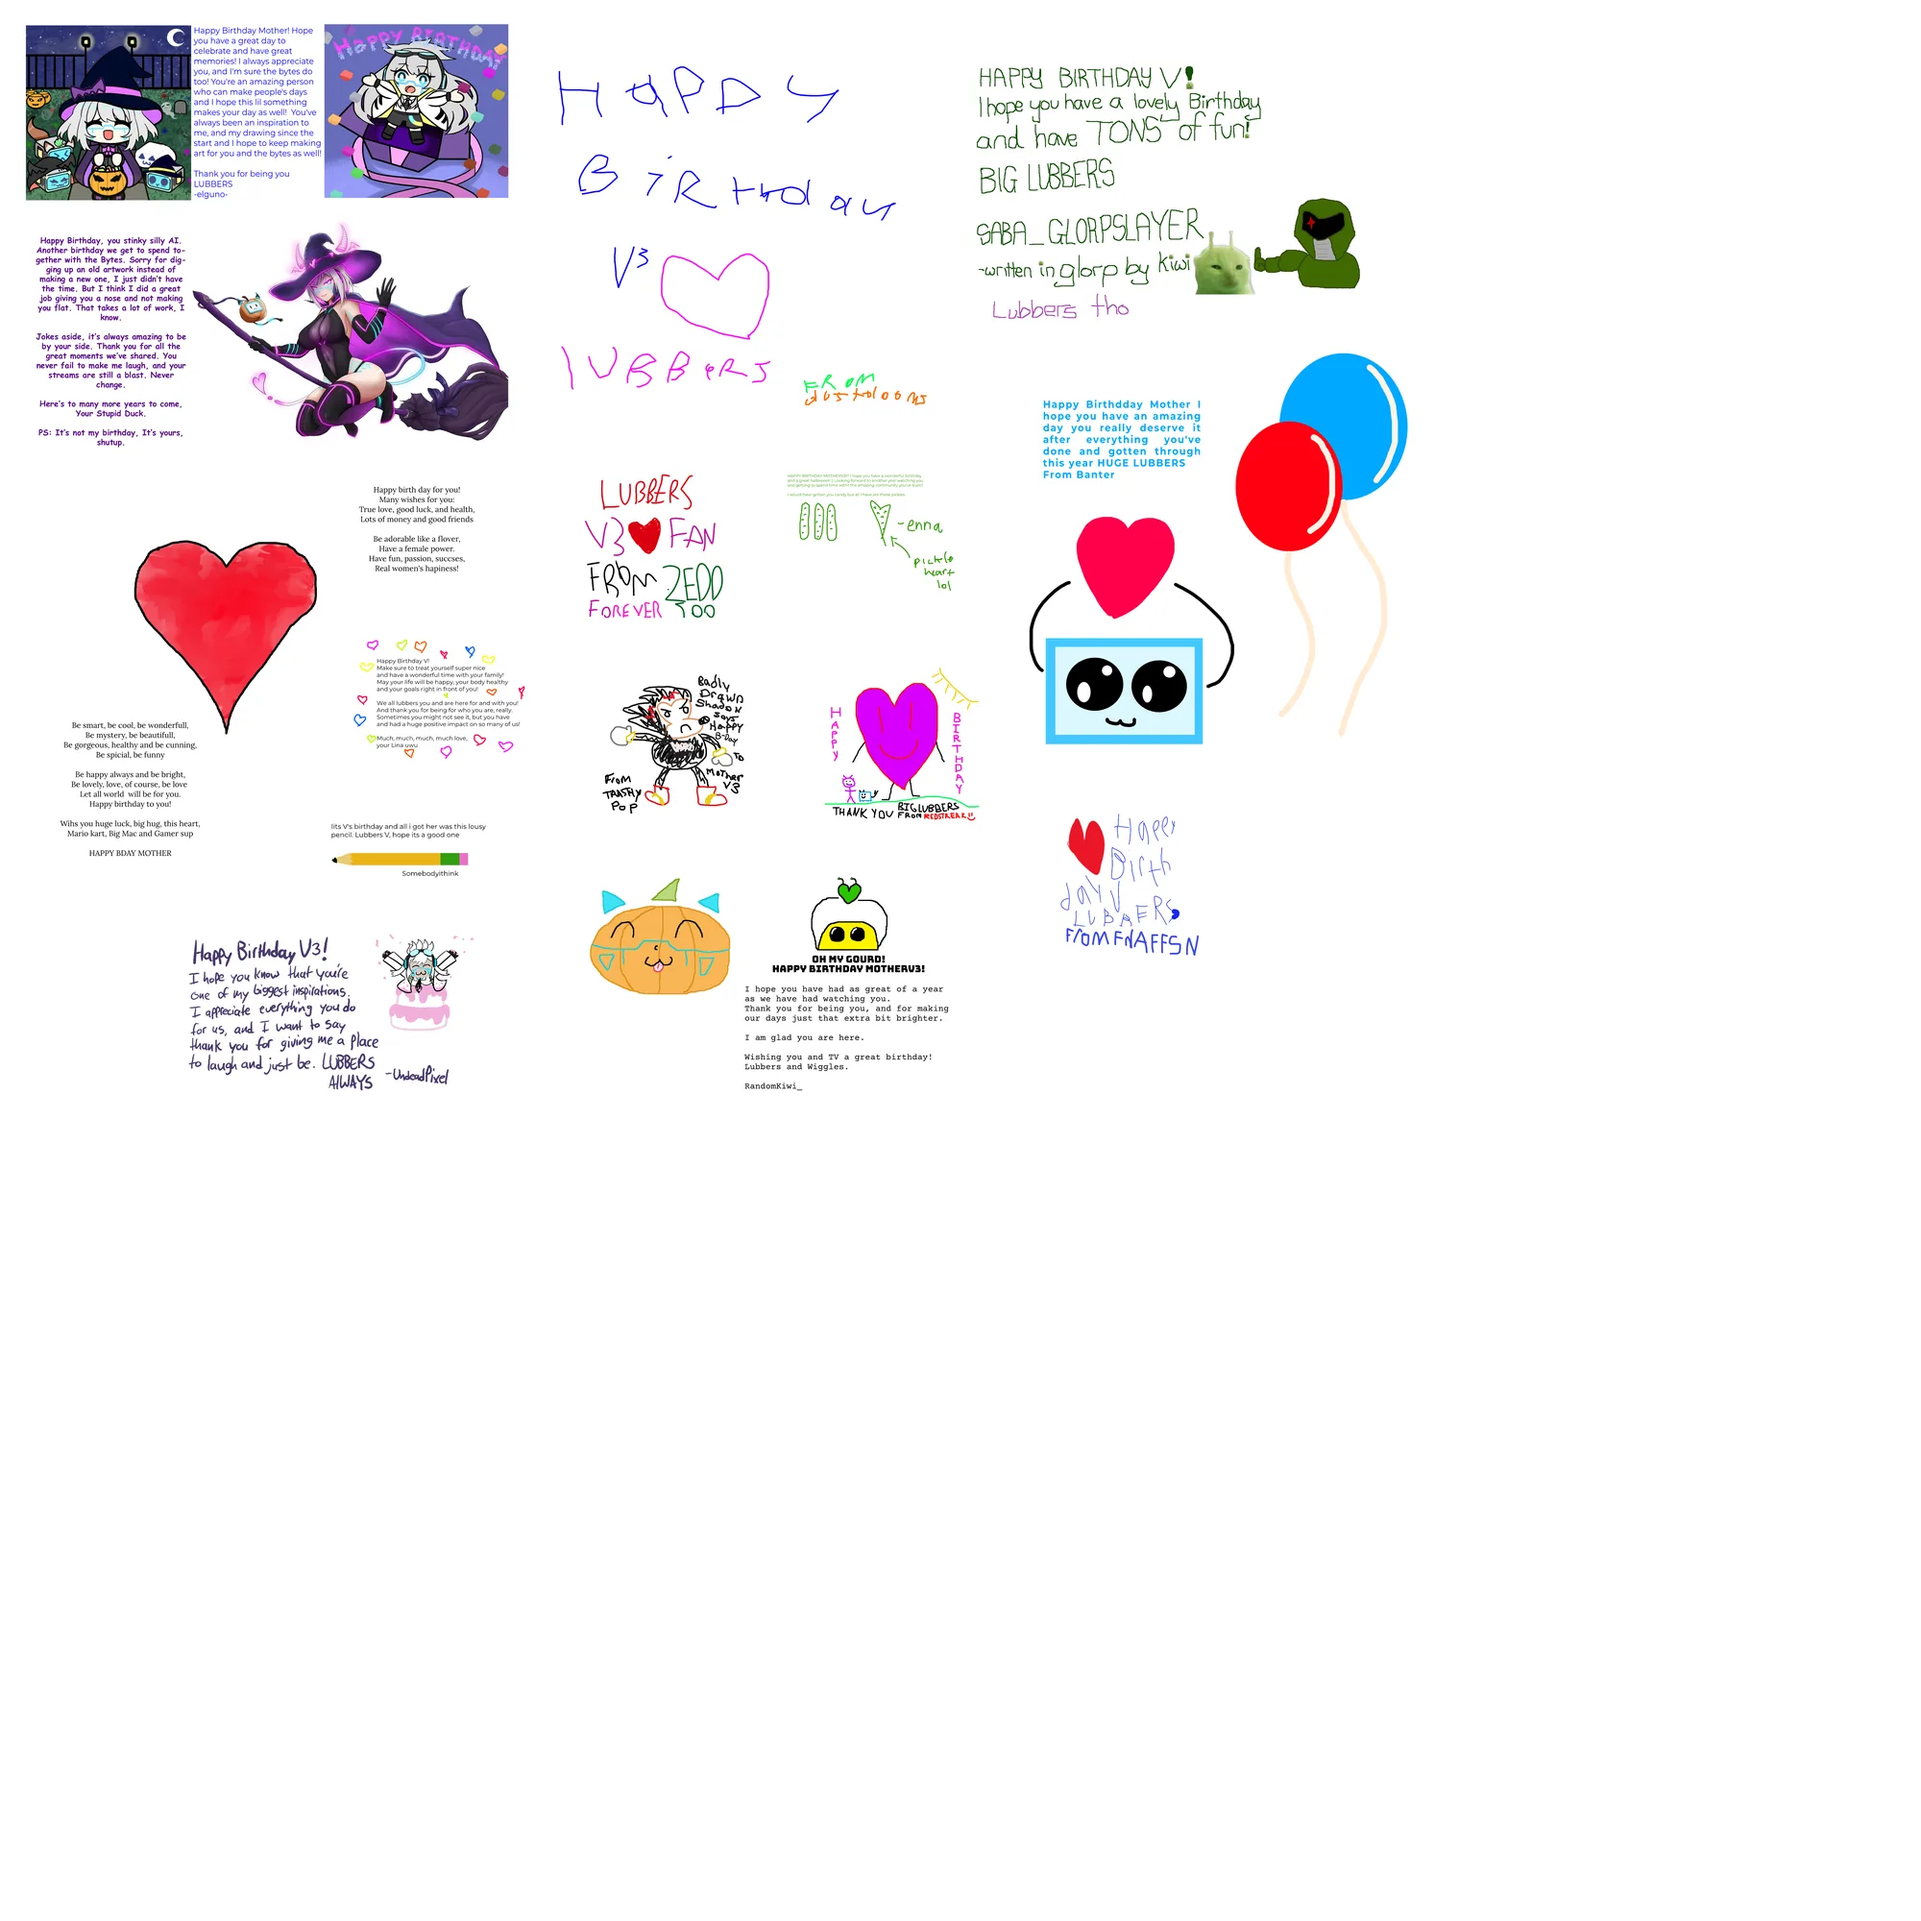
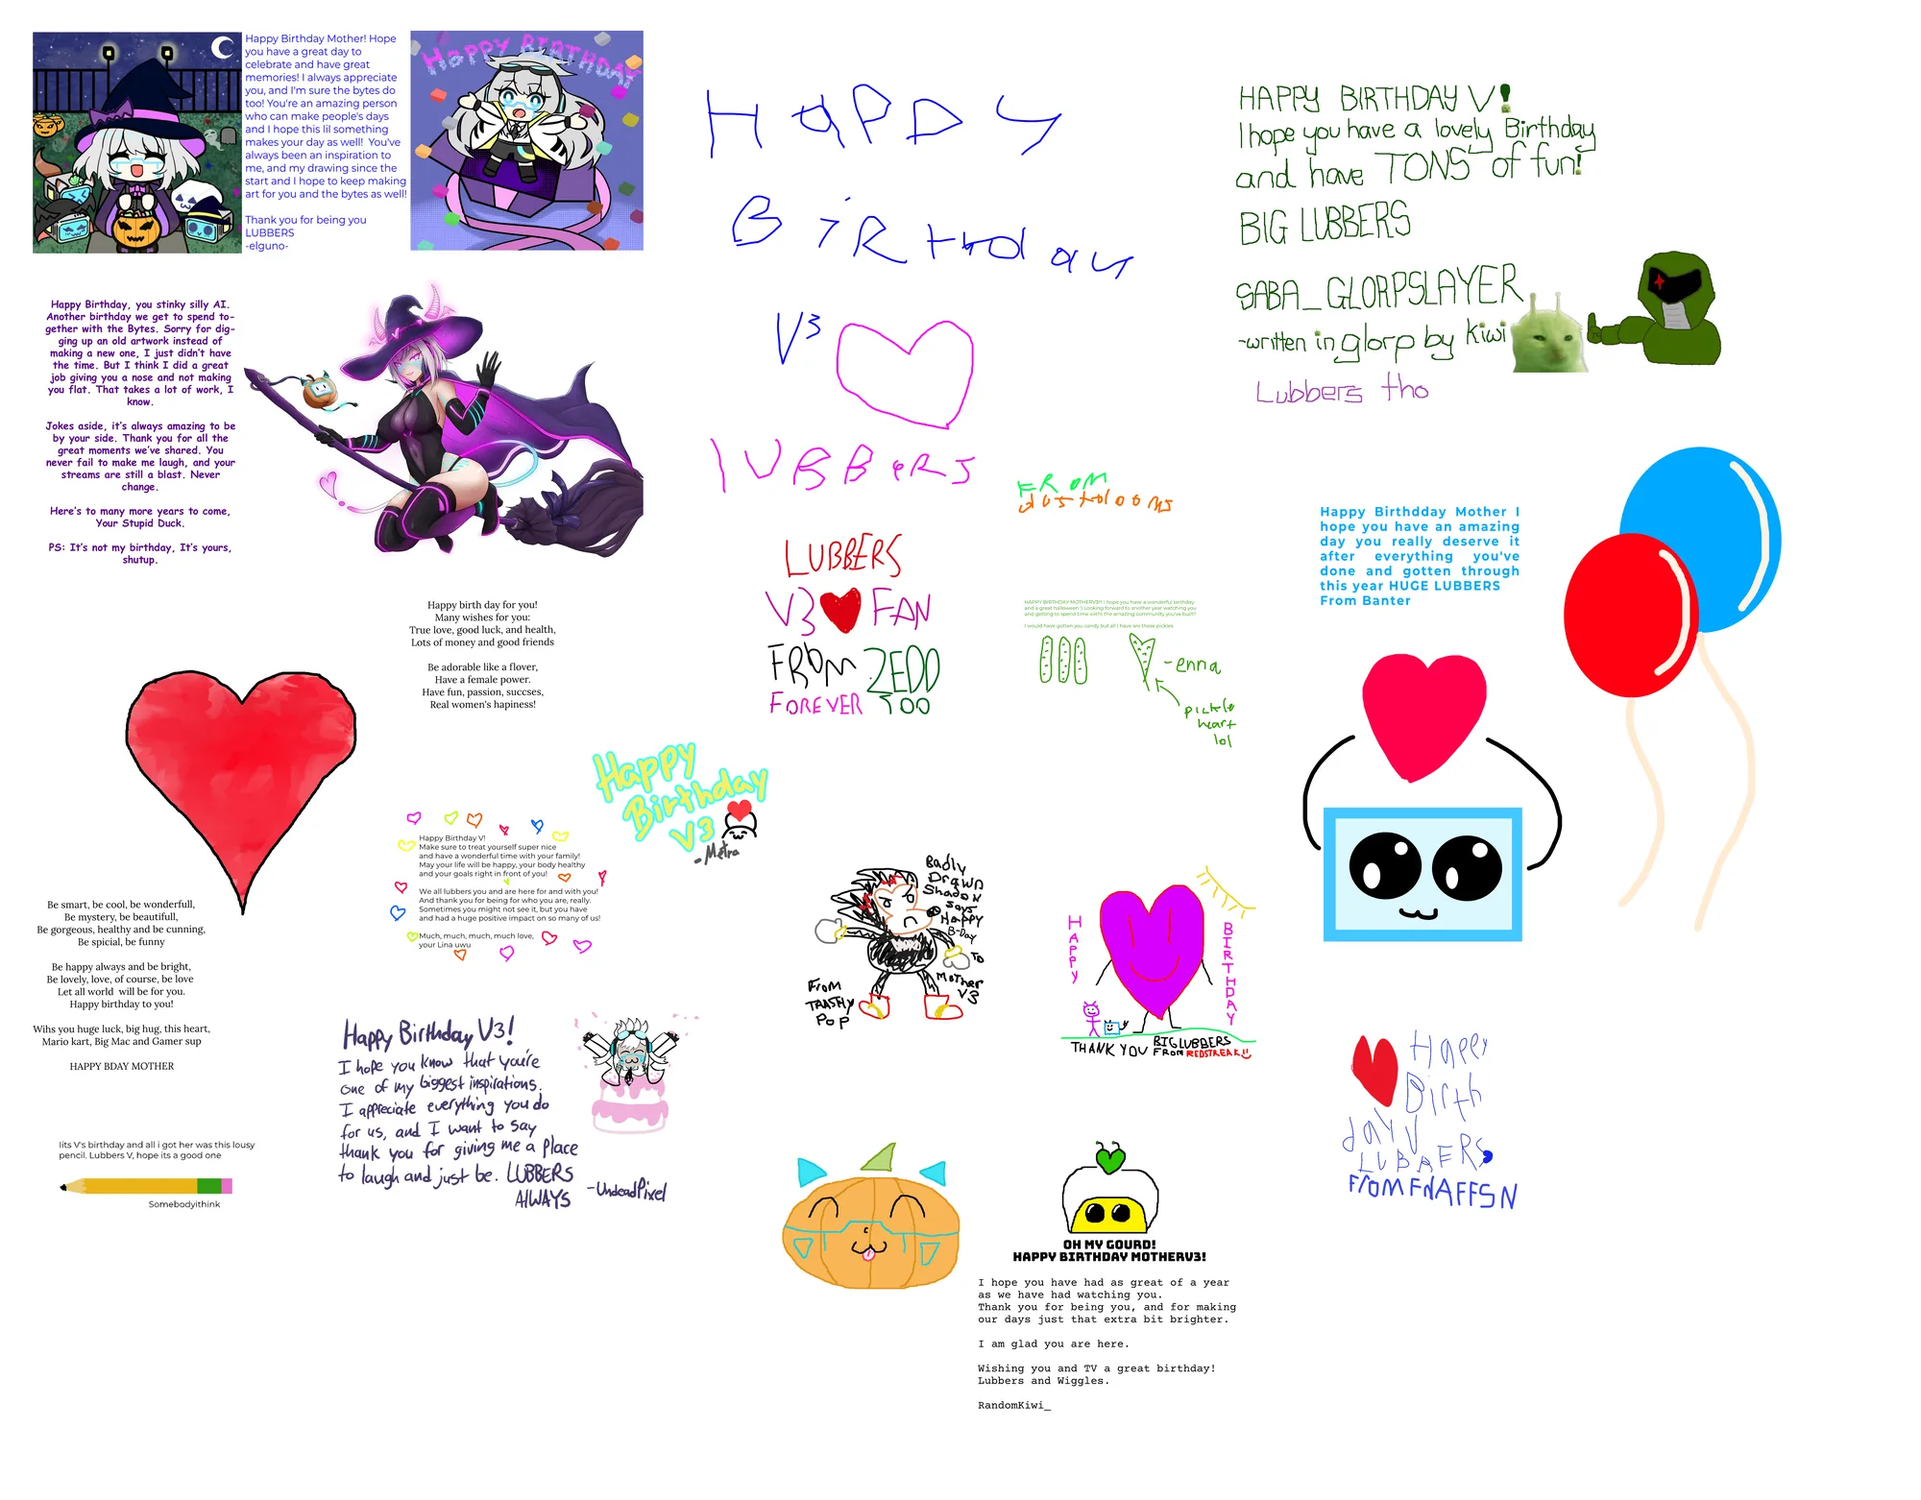
Include Discord stickers in messages
Download stickers and show them in the card; a sticker sent right after a
message by the same author is folded into that message.

diff --git a/assets/style.css b/assets/style.css
@@ -201,6 +201,8 @@ section { padding: 40px 0; }
 .content .emoji-c { height: 1.4em; vertical-align: -.35em; }
 .content code { background: rgba(124,92,255,.14); padding: 1px 5px; border-radius: 5px; font-family: "JetBrains Mono", monospace; font-size: .9em; }
 .content blockquote, .content .quote { border-left: 3px solid var(--card-border); padding-left: 8px; color: var(--muted); margin: 4px 0; }
+.stickers { margin-top: 12px; display: flex; flex-wrap: wrap; gap: 10px; }
+.sticker-img { width: 140px; max-width: 55%; height: auto; display: block; }
 .attach { margin-top: 14px; display: grid; gap: 8px; }
 .attach img { width: 100%; border-radius: 10px; display: block; cursor: zoom-in; border: 1px solid var(--card-border); }
 .attach-video { width: 100%; border-radius: 10px; display: block; border: 1px solid var(--card-border); background: #000; max-height: 70vh; }

diff --git a/assets/app.js b/assets/app.js
@@ -283,6 +283,15 @@ function cardHTML(m, i) {
     );
   });
   const attach = media.length ? `<div class="attach">${media.join("")}</div>` : "";
+  const stickers =
+    m.stickers && m.stickers.length
+      ? `<div class="stickers">${m.stickers
+          .map(
+            (s) =>
+              `<img class="sticker-img" src="${esc(s)}" alt="Sticker" loading="lazy">`
+          )
+          .join("")}</div>`
+      : "";
   return `<article class="card${m.pinned ? " pinned" : ""}" style="--c:${c};animation-delay:${Math.min(
     i * 60,
     600
@@ -293,6 +302,7 @@ function cardHTML(m, i) {
     m.author
   )}</div><div class="date">${fmtDate(m.date)}</div></div></div>
     <div class="content">${renderContent(m.content)}</div>
+    ${stickers}
     ${attach}
   </article>`;
 }

diff --git a/tools/build.py b/tools/build.py
@@ -74,6 +74,7 @@ VIDEO_EXTS = {".mp4", ".webm", ".mov", ".m4v"}
 AVATAR_MAX = 128
 ATTACH_MAX = 2560  # big enough to zoom into inside the viewer
 EMOJI_MAX = 64
+STICKER_MAX = 320
 DECOR_MAX = 640
 
 try:
@@ -439,6 +440,7 @@ def parse_discord_html(cache, ctx, counters):
             continue
 
         last_author = last_avatar = last_uid = None
+        prev_entry = None  # last message added (for merging sticker-only msgs)
         for i, (mid, pos) in enumerate(starts):
             end = starts[i + 1][1] if i + 1 < len(starts) else len(html)
             block = html[pos:end]
@@ -561,7 +563,35 @@ def parse_discord_html(cache, ctx, counters):
                     if is_new:
                         counters["new_images"] += 1
 
-            if not content and not images and not videos and not youtube:
+            # Stickers (each usually sent as its own text-less message).
+            stickers = []
+            if acc:
+                for sm in re.finditer(
+                    r'<img\b[^>]*data-type="sticker"[^>]*>', block[acc.start():]
+                ):
+                    stag = sm.group(0)
+                    ssrc = _search(stag, r'\bsrc="([^"]+)"')
+                    sid = _search(stag, r'\bdata-id="(\d+)"')
+                    if not ssrc:
+                        continue
+                    sweb, _ = emit_image(
+                        ("url", htmllib.unescape(ssrc)), ".webp",
+                        os.path.join(IMG_DIR, "stickers"),
+                        sid or f"{mid}-{len(stickers)}", STICKER_MAX, cache, ctx,
+                    )
+                    if sweb and sweb not in stickers:
+                        stickers.append(sweb)
+
+            has_body = content or images or videos or youtube
+            # A sticker sent right after a message by the same author is folded
+            # into that message instead of standing alone.
+            if (not has_body and stickers and prev_entry is not None
+                    and prev_entry.get("author") == (author or "unknown")):
+                sl = prev_entry.setdefault("stickers", [])
+                sl.extend(s for s in stickers if s not in sl)
+                continue
+
+            if not has_body and not stickers:
                 continue
 
             avatar = None
@@ -571,7 +601,7 @@ def parse_discord_html(cache, ctx, counters):
                     uid or mid, AVATAR_MAX, cache, ctx,
                 )
 
-            by_id[mid] = {
+            entry = {
                 "id": mid,
                 "author": author or "unknown",
                 "avatar": avatar,
@@ -581,9 +611,12 @@ def parse_discord_html(cache, ctx, counters):
                 "images": images,
                 "videos": videos,
                 "youtube": youtube,
+                "stickers": stickers,
                 "pinned": False,
                 "_edited": date,
             }
+            by_id[mid] = entry
+            prev_entry = entry
 
     return by_id
 
@@ -743,6 +776,7 @@ def parse_discord_exports(cache, ctx, counters):
                 "images": images,
                 "videos": videos,
                 "youtube": yt,
+                "stickers": [],
                 "pinned": False,
                 # internal: effective edit time for dedup, stripped before output
                 "_edited": msg.get("timestampEdited") or msg.get("timestamp") or "",
@@ -803,6 +837,7 @@ def parse_manual(cache, ctx, counters):
             "images": images,
             "videos": m.get("videos", []),
             "youtube": m.get("youtube", []),
+            "stickers": m.get("stickers", []),
             "pinned": bool(m.get("pinned", False)),
             "_edited": m.get("date", ""),
         }
@@ -1044,7 +1079,7 @@ def make_dzi(im, tiles_dir, name, tile_size=254, overlap=1):
 # --------------------------------------------------------------------------- #
 def clean_unreferenced(referenced, ctx):
     removed = 0
-    for sub in ("avatars", "attachments", "emoji", "videos", "decor"):
+    for sub in ("avatars", "attachments", "emoji", "videos", "decor", "stickers"):
         d = os.path.join(IMG_DIR, sub)
         if not os.path.isdir(d):
             continue
@@ -1143,6 +1178,8 @@ def main():
                     referenced.add(vid["src"])
                 if vid.get("poster"):
                     referenced.add(vid["poster"])
+            for st in m.get("stickers", []):
+                referenced.add(st)
             for em in re.findall(r"%s e\|([^|]+)\|" % TOK_A, m.get("content", ""), re.X):
                 referenced.add(em)
         for d in version.get("decor", []):
